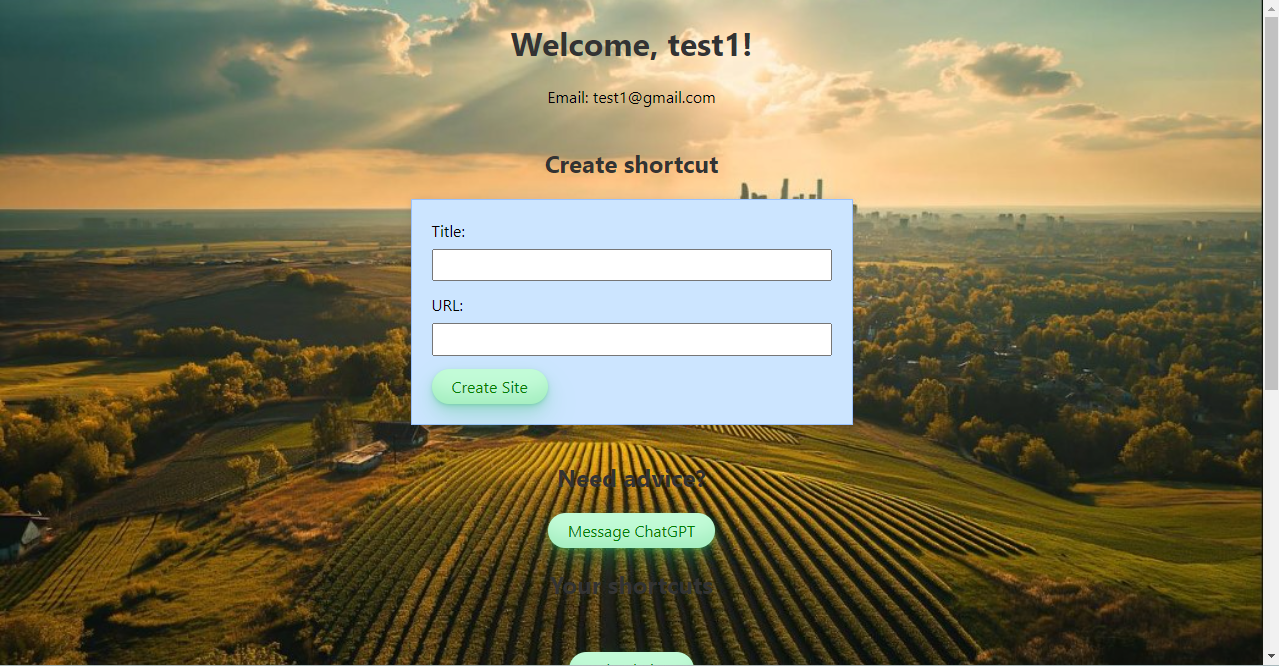
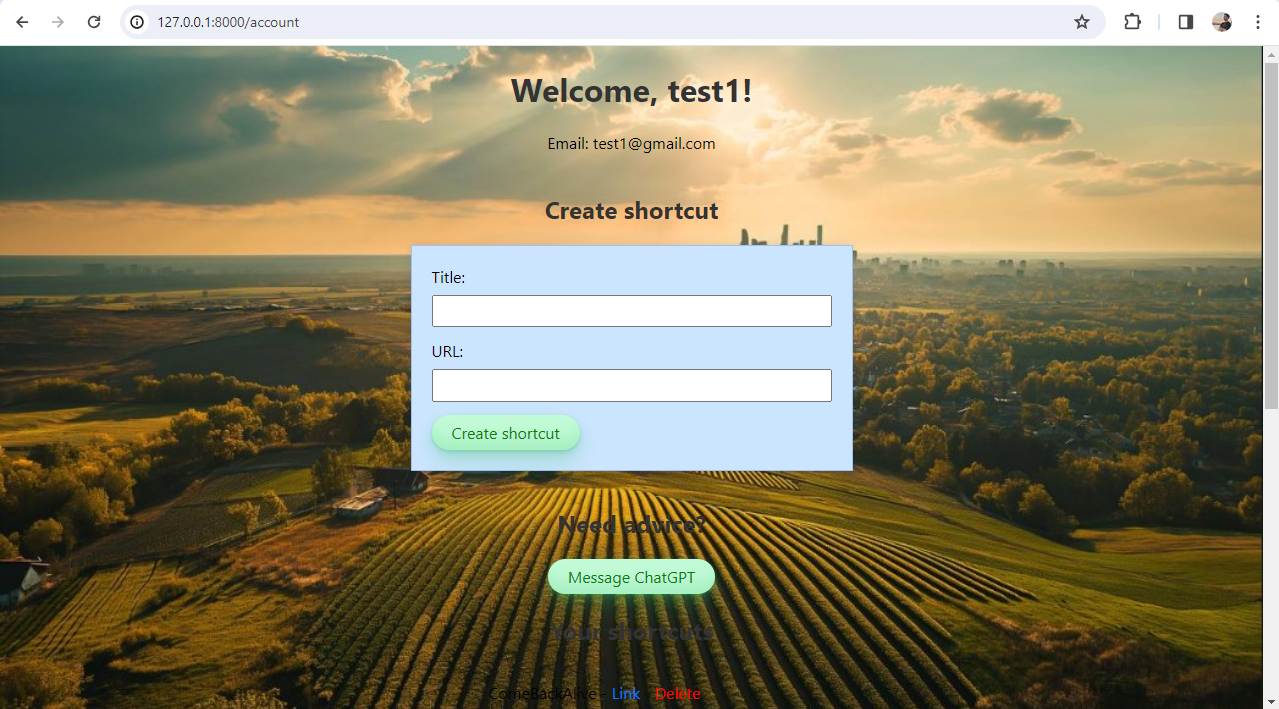
added delete button

diff --git a/templates/account.html b/templates/account.html
@@ -33,24 +33,27 @@
 
    <h2>Your shortcuts</h2>
    <ul id="shortcuts-list">
-       {% for shortcut in shortcuts %}
-           <li>{{ shortcut.title }} - <a href="/go-to-shortcut/{{ shortcut.id }}">Link</a></li>
-       {% endfor %}
+      {% for shortcut in shortcuts %}
+          <li>
+              {{ shortcut.title }} - <a href="/go-to-shortcut/{{ shortcut.id }}">Link</a>
+              - <a href="/delete-shortcut/{{ shortcut.id }}" class="delete-button">Delete</a>
+          </li>
+      {% endfor %}
    </ul>
    <button id="reload-button">Reload shortcuts</button>
 
    <h2>Change password?</h2>
-   {% if error %}
-       {% if "Incorrect current password" in error %}
-           <p style="color: red;">{{ error }}</p>
-       {% elif "New password and confirm password do not match" in error %}
-           <p style="color: red;">{{ error }}</p>
-       {% elif "Password changed successfully" in error %}
-           <p style="color: green;">{{ error }}</p>
-       {% else %}
-           <p>{{ error }}</p>
-       {% endif %}
-   {% endif %}
+      {% if error %}
+          {% if "Incorrect current password" in error %}
+              <p style="color: red;">{{ error }}</p>
+          {% elif "New password and confirm password do not match" in error %}
+              <p style="color: red;">{{ error }}</p>
+          {% elif "Password changed successfully" in error %}
+              <p style="color: green;">{{ error }}</p>
+          {% else %}
+              <p>{{ error }}</p>
+          {% endif %}
+      {% endif %}
    <form method="POST" action="/account">
        <label for="current_password">Current password:</label>
        <input type="password" name="current_password" id="current_password" required>
@@ -71,28 +74,64 @@
    </div>
 
    <script>
-   document.getElementById('reload-button').addEventListener('click', function() {
-       fetch('/update-shortcuts')
-           .then(response => response.json())
-           .then(data => {
-               var shortcutsList = document.getElementById('shortcuts-list');
-               shortcutsList.innerHTML = '';
-
-               data.shortcuts.forEach(shortcut => {
+    document.getElementById('reload-button').addEventListener('click', function() {
+      fetch('/update-shortcuts')
+          .then(response => response.json())
+          .then(data => {
+              var shortcutsList = document.getElementById('shortcuts-list');
+              shortcutsList.innerHTML = '';
+    
+              data.shortcuts.forEach(shortcut => {
                   var listItem = document.createElement('li');
                   listItem.textContent = shortcut.title + ' - ';
                   var link = document.createElement('a');
                   link.href = '/go-to-shortcut/' + shortcut.id;
                   link.textContent = 'Link';
                   listItem.appendChild(link);
+    
+                  // Add a space after the "Link" button
+                  listItem.appendChild(document.createTextNode(' '));
+    
+                  var deleteButton = document.createElement('a');
+                  deleteButton.href = '/delete-shortcut/' + shortcut.id;
+                  deleteButton.textContent = 'Delete';
+                  deleteButton.className = 'delete-button';
+                  deleteButton.addEventListener('click', function(event) {
+                    event.preventDefault();
+                    var shortcutId = this.href.split('/').pop();
+                    if (confirm("Are you sure you want to delete this shortcut?")) {
+                        fetch('/delete-shortcut/' + shortcutId, {
+                            method: 'DELETE',
+                        })
+                        .then(response => {
+                            if (!response.ok) {
+                                throw new Error('Network response was not ok');
+                            }
+                            return response.json();
+                        })
+                        .then(data => {
+                            alert(data.message); // Display a message indicating success or failure
+                            // Reload shortcuts after deletion
+                            document.getElementById('reload-button').click();
+                        })
+                        .catch(error => {
+                            console.error('Error during shortcut deletion:', error);
+                            alert('An error occurred during shortcut deletion. Please try again.');
+                        });
+                    }
+                  });
+                  listItem.appendChild(deleteButton);
+    
                   shortcutsList.appendChild(listItem);
-               });
-           });
-   });
-   document.getElementById('go-to-chatgpt').addEventListener('click', function() {
-        window.location.href = '/chatgpt';
+              });
+          });
     });
-   </script>
+    
+    document.getElementById('go-to-chatgpt').addEventListener('click', function() {
+      window.location.href = '/chatgpt';
+    });
+    </script>    
+    
 </body>
 
 </html>

diff --git a/static/css/styles.css b/static/css/styles.css
@@ -135,13 +135,13 @@ button {
     user-select: none;
     -webkit-user-select: none;
     touch-action: manipulation;
-   }
+}
    
 button:hover {
     box-shadow: rgba(44,187,99,.35) 0 -25px 18px -14px inset,rgba(44,187,99,.25) 0 1px 2px,rgba(44,187,99,.25) 0 2px 4px,rgba(44,187,99,.25) 0 4px 8px,rgba(44,187,99,.25) 0 8px 16px,rgba(44,187,99,.25) 0 16px 32px;
     transform: scale(1.05) rotate(-1deg);
     outline-color: transparent;
-   }
+}
 
 button:is(:hover, :focus) {
     box-shadow: 0 0 3px 3px
@@ -172,7 +172,7 @@ a:hover {
     align-items: center;
     height: 100vh;
     margin: 0;
-  }
+}
 
 .centered h1 {
     margin-bottom: 20px;
@@ -193,6 +193,18 @@ a.logout-link:hover {
     background-color: #dc3545;
     color: #fff;
     text-decoration: none;
+}
+
+.delete-button {
+    color: red !important; /* Force the text color to red */
+    text-decoration: none !important; /* Remove underline */
+    margin-left: 10px; /* Add some space between the Link and Delete buttons */
+    cursor: pointer; /* Change the cursor to a pointer when hovering over the button */
+    /* Add any other styling rules as needed */
+}
+   
+.delete-button:hover {
+    background-color: #ffcccc; /* Add a light red background color when hovering over the button */
 }
 
 .register-background {
@@ -275,21 +287,3 @@ a.logout-link:hover {
     text-align: center;
     margin-top: 20px;
 }
-  
-/* .user-message {
-    background-color: #f0f0f0; 
-    color: #333; 
-    float: right; 
-    padding: 10px;
-    margin-bottom: 10px; 
-    border-radius: 5px; 
-}
- 
-.gpt-message {
-    background-color: #333; 
-    color: #f0f0f0; 
-    float: left; 
-    padding: 10px; 
-    margin-bottom: 10px; 
-    border-radius: 5px; 
-} */

diff --git a/app/routers/shortcut.py b/app/routers/shortcut.py
@@ -22,8 +22,27 @@ async def create_shortcut(request: Request,
      db.session.commit()
      return RedirectResponse(url="/account", status_code=303)
   else:
-     return RedirectResponse("/login")
+     return RedirectResponse("/account")
 
+
+@router.delete("/delete-shortcut/{shortcut_id}")
+async def delete_shortcut(request: Request, shortcut_id: int):
+    user = request.session.get("user")
+    if not user:
+        return RedirectResponse("/login")
+
+    shortcut = db.session.query(ModelShortcuts).filter(
+        ModelShortcuts.id == shortcut_id,
+        ModelShortcuts.user_id == user["id"]
+    ).first()
+
+    if shortcut:
+        db.session.delete(shortcut)
+        db.session.commit()
+        return {"message": "Shortcut deleted successfully"}
+    else:
+        return {"error": "Shortcut wasn`t created"}
+    
 
 @router.get("/update-shortcuts")
 async def update_shortcuts(request: Request):
